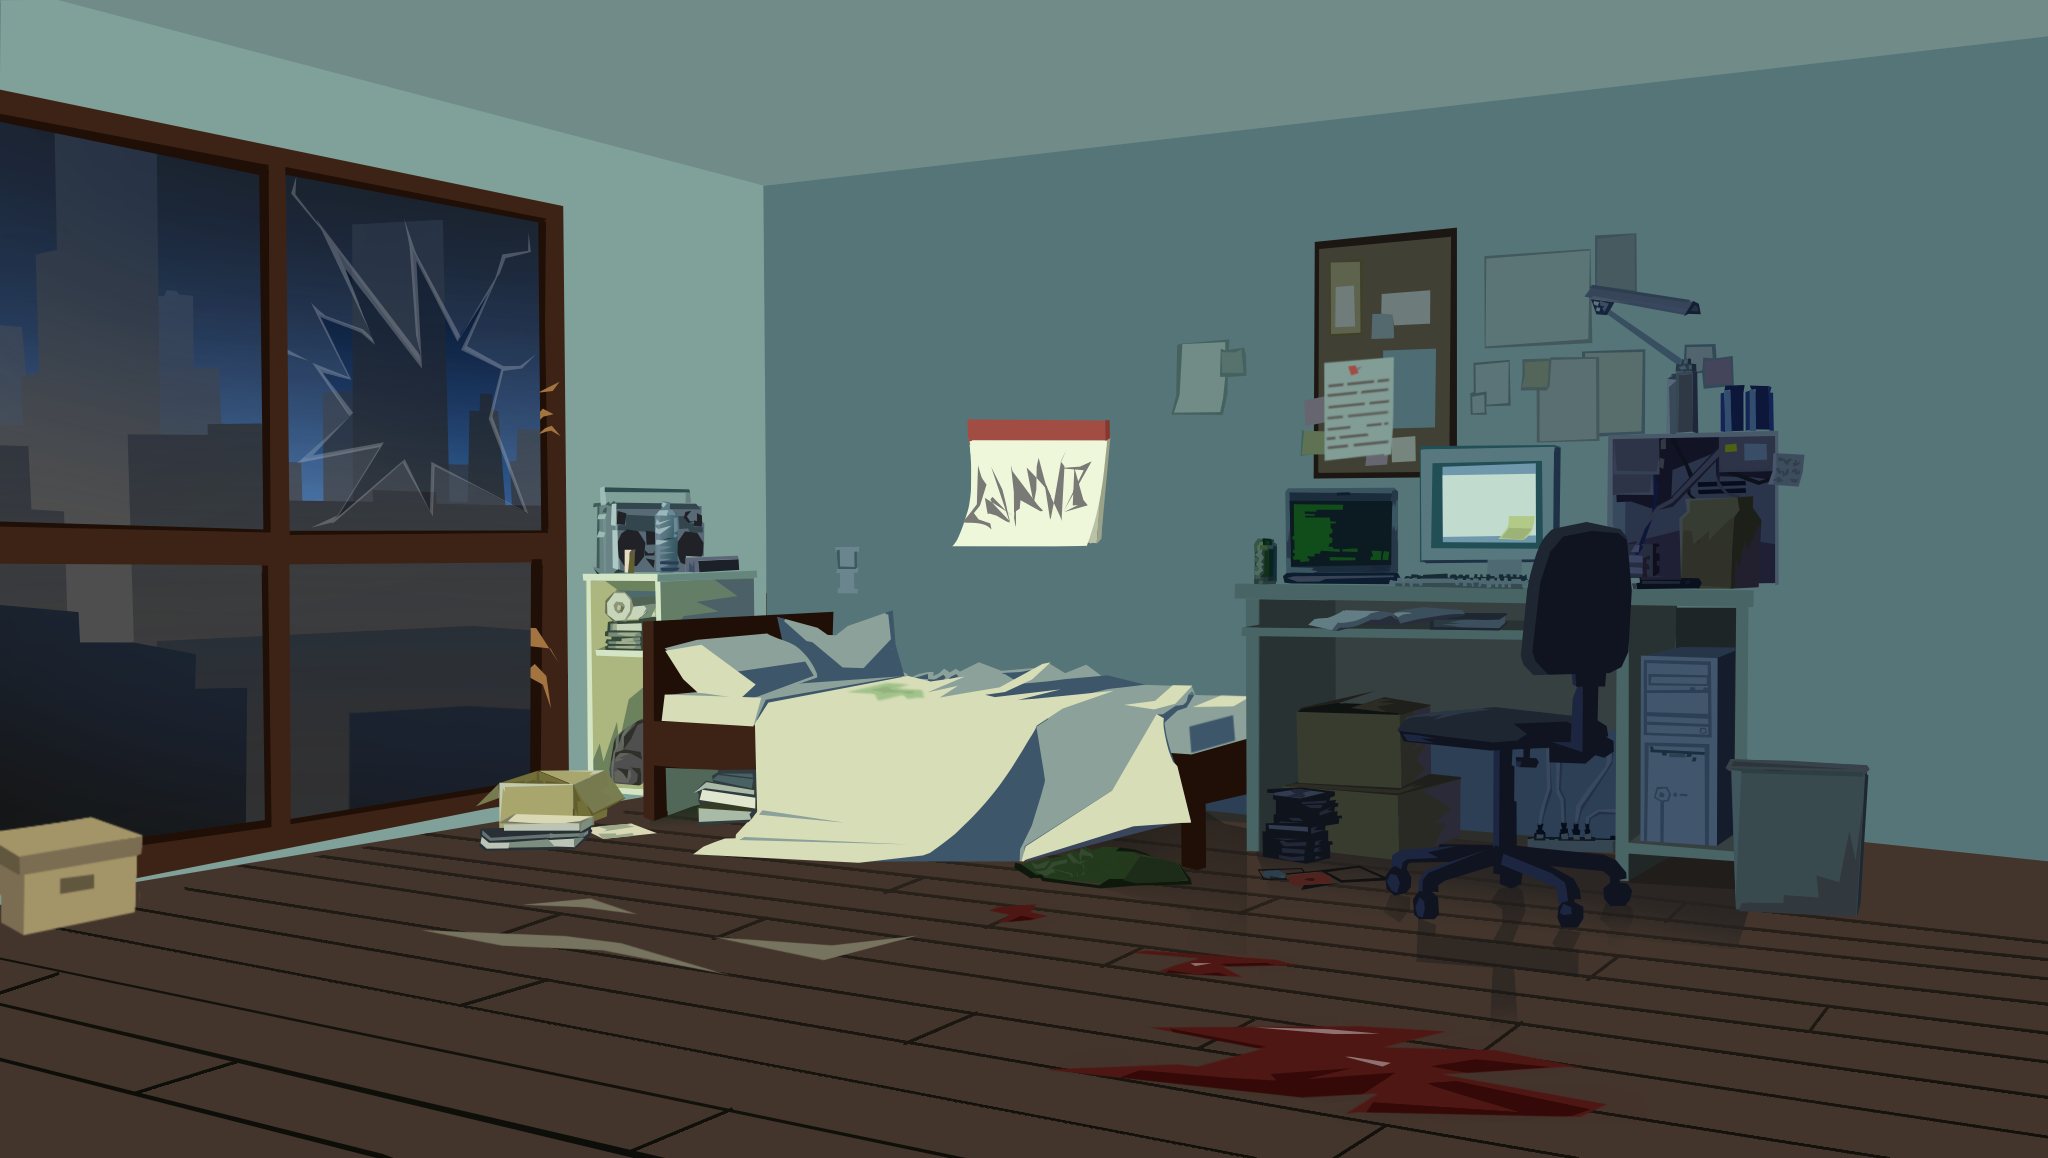
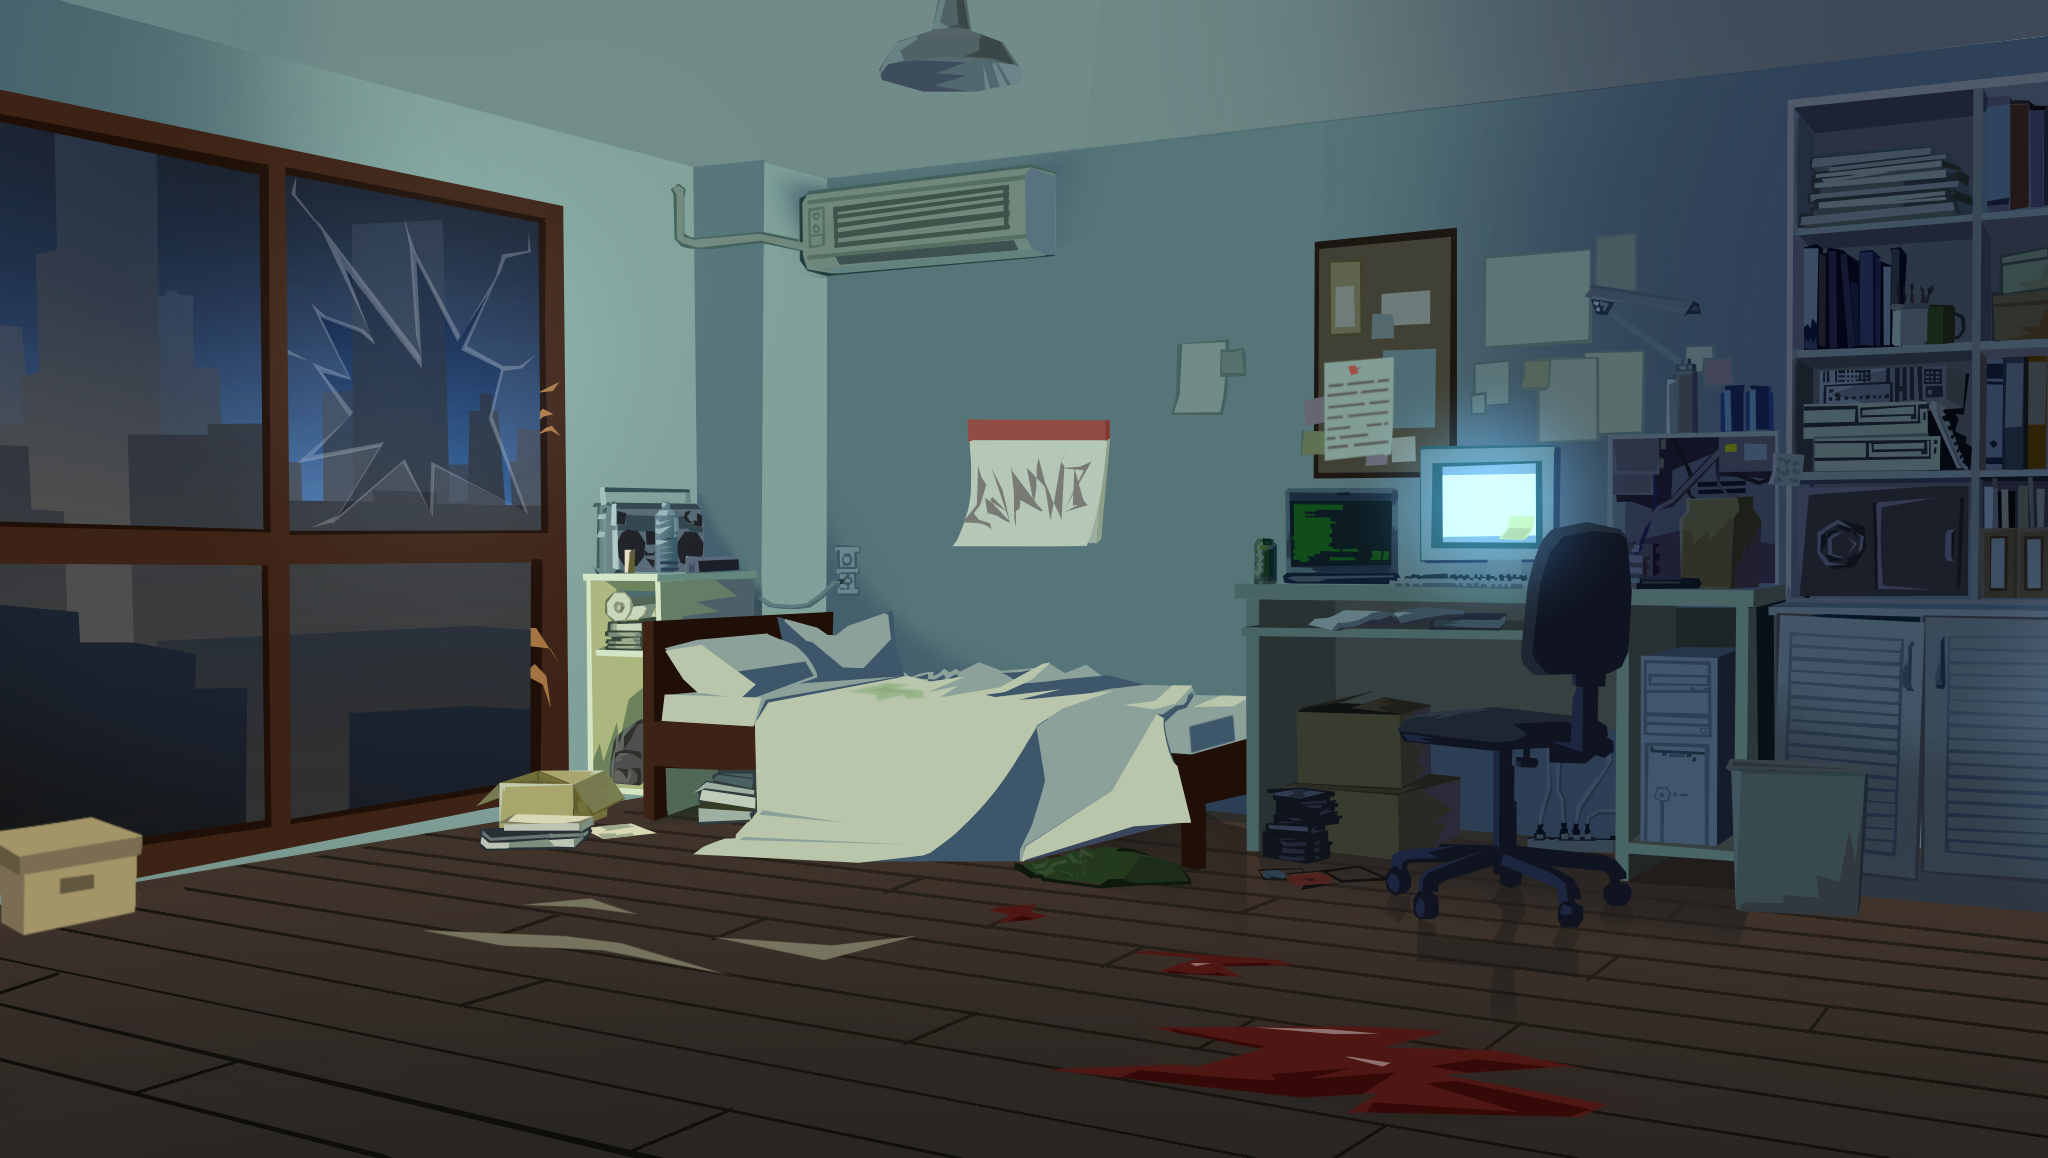
25/06

diff --git a/templates/station.html b/templates/station.html
@@ -73,25 +73,31 @@
                 <button class="next-dialogue-button" onclick="hideDialogue(); location.href='station'">></button>
             </div>
         </div>
+        <!-- buttons to go to next place -->
+        <div class="next-buttons">
+            <button id="hidden-button" class="next-location-button" onclick="location.href='station'" style="display:none">Warn the target</button>
+            <button class="next-location-button" onclick="location.href='alleyway'">End Investigation</button>
+        </div>
 
-        <button class="next-location-button">End investigation</button>
+        <!-- shows the 'warn the target' button if one of the correlating clues has been found -->
+        {% if showbutton == True %}
+            <script>document.getElementById("hidden-button").style.display = "block";</script>
+        {% endif %}
+    
 
         <!-- referenced from stackoverflow.com -->
+        <!-- clickable areas image map -->
         <map name="station-map">
-            <area name="broken-window" shape="rect" coords="240, 147, 392, 316" onclick="showDialogue(); sendID(2)">
-            <area name="floor-scuffs" shape="rect" coords="364, 561, 659, 630" onclick="showDialogue(); sendID(3)">
-            <area name="bed-chemical" shape="rect" coords="631, 428, 695, 451" onclick="showDialogue(); sendID(4)">
-            <area name="blood-splatter" shape="rect" coords="814, 627, 1206, 722" onclick="showDialogue(); sendID(5)">
-            <area name="safe" shape="rect" coords="1336, 306, 1471, 380" onclick="showDialogue()">
-            <area name="computer-code" shape="rect" coords="1057, 286, 1167, 357" onclick="showDialogue(); sendID(6)">
-            <area name="commissioner-code" shape="rect" coords="965, 220, 1042, 283" onclick="showDialogue(); sendID(7)">
-            <area name="calander" shape="rect" coords="715, 268, 830, 351" onclick="showDialogue(); sendID(8)">
-            <area name="window-scuffs1" shape="rect" coords="397, 243, 430, 283" onclick="showDialogue(); sendID(9)">
-            <area name="window-scuffs2" shape="rect" coords="393, 389, 426, 461" onclick="showDialogue(); sendID(9)">
+            <area name="map" shape="rect" coords="417, 140, 582, 282" onclick="showDialogue(); sendClueID(11);">
+            <area name="screwdriver" shape="rect" coords="684, 374, 800, 432" onclick="showDialogue(); sendItemID(2)">
+            <area name="open-book" shape="rect" coords="811, 547, 913, 619" onclick="showDialogue(); sendClueID(12)">
+            <area name="computer-message" shape="rect" coords="1006, 301, 1206, 722" onclick="showDialogue(); sendClueID(13)">
+            <area name="clock" shape="circle" coords="1063, 84, 63" onclick="showDialogue(); sendClueID(14)">
         </map>
 
     </body>
     <script>
+        //opens and closes menu
         function openMenu() {
             document.getElementById("menu-screen").style.display = "block";
             openGame()
@@ -100,6 +106,7 @@
             document.getElementById("menu-screen").style.display = "none";
         }
 
+        //switches between menu pages
         function openGame() {
             document.getElementById("menu-game").style.display = "block";
             document.getElementById("menu-clues").style.display = "none";
@@ -118,7 +125,6 @@
             document.getElementById("menu-game").style.display = "none";
             ButtonHover('button-inventory','button-clues','button-game')
         }
-
         function ButtonHover(id1, id2, id3){
             document.getElementById(id1).style.backgroundColor = "white";
             document.getElementById(id1).style.color = "darkgrey";
@@ -128,6 +134,7 @@
             document.getElementById(id3).style.color = "white";
         }
 
+        //shows/hides dialogue box
         function showDialogue() {
             document.getElementById("dialogue-div").style.display = "block";
             openGame()
@@ -137,9 +144,19 @@
             openGame()
         }
 
-        function sendID(num) {
+        //sends the clue ID to the python so it can be changed in the database
+        function sendClueID(num) {
             $.ajax({
-                url: '/process',
+                url: '/processClue',
+                type: 'POST',
+                data: { 'data': num },
+            });
+
+        }
+
+        function sendItemID(num) {
+            $.ajax({
+                url: '/processItem',
                 type: 'POST',
                 data: { 'data': num },
             });
@@ -147,4 +164,3 @@
         }
     </script>
 </html>
-

diff --git a/templates/alleyway.html b/templates/alleyway.html
@@ -73,25 +73,30 @@
                 <button class="next-dialogue-button" onclick="hideDialogue(); location.href='alleyway'">></button>
             </div>
         </div>
+        <!-- buttons to go to next place -->
+        <div class="next-buttons">
+            <button id="hidden-button" class="next-location-button" onclick="location.href='station'" style="display:none">Warn the target</button>
+            <button class="next-location-button" onclick="location.href='alleyway'">End Investigation</button>
+        </div>
 
-        <button class="next-location-button">End investigation</button>
+        <!-- shows the 'warn the target' button if one of the correlating clues has been found -->
+        {% if showbutton == True %}
+            <script>document.getElementById("hidden-button").style.display = "block";</script>
+        {% endif %}
+    
 
         <!-- referenced from stackoverflow.com -->
+        <!-- clickable areas image map -->
         <map name="alleyway-map">
-            <area name="broken-window" shape="rect" coords="240, 147, 392, 316" onclick="showDialogue(); sendID(2)">
-            <area name="floor-scuffs" shape="rect" coords="364, 561, 659, 630" onclick="showDialogue(); sendID(3)">
-            <area name="bed-chemical" shape="rect" coords="631, 428, 695, 451" onclick="showDialogue(); sendID(4)">
-            <area name="blood-splatter" shape="rect" coords="814, 627, 1206, 722" onclick="showDialogue(); sendID(5)">
-            <area name="safe" shape="rect" coords="1336, 306, 1471, 380" onclick="showDialogue()">
-            <area name="computer-code" shape="rect" coords="1057, 286, 1167, 357" onclick="showDialogue(); sendID(6)">
-            <area name="commissioner-code" shape="rect" coords="965, 220, 1042, 283" onclick="showDialogue(); sendID(7)">
-            <area name="calander" shape="rect" coords="715, 268, 830, 351" onclick="showDialogue(); sendID(8)">
-            <area name="window-scuffs1" shape="rect" coords="397, 243, 430, 283" onclick="showDialogue(); sendID(9)">
-            <area name="window-scuffs2" shape="rect" coords="393, 389, 426, 461" onclick="showDialogue(); sendID(9)">
+            <area name="dumpster" shape="poly" coords="817, 399, 1035, 350, 1116, 362, 1120, 639, 880, 642, 815, 587" onclick="showDialogue(); sendClueID(15);">
+            <area name="arkham-newspaper" shape="rect" coords="768, 113, 863, 267" onclick="showDialogue(); sendClueID(16)">
+            <area name="robin-newspaper" shape="rect" coords="556, 362, 634, 467" onclick="showDialogue(); sendClueID(17)">
+            <area name="station-door" shape="rect" coords="434, 180, 466, 628" onclick="showDialogue(); sendClueID(18)">
         </map>
 
     </body>
     <script>
+        //opens and closes menu
         function openMenu() {
             document.getElementById("menu-screen").style.display = "block";
             openGame()
@@ -100,6 +105,7 @@
             document.getElementById("menu-screen").style.display = "none";
         }
 
+        //switches between menu pages
         function openGame() {
             document.getElementById("menu-game").style.display = "block";
             document.getElementById("menu-clues").style.display = "none";
@@ -118,7 +124,6 @@
             document.getElementById("menu-game").style.display = "none";
             ButtonHover('button-inventory','button-clues','button-game')
         }
-
         function ButtonHover(id1, id2, id3){
             document.getElementById(id1).style.backgroundColor = "white";
             document.getElementById(id1).style.color = "darkgrey";
@@ -128,6 +133,7 @@
             document.getElementById(id3).style.color = "white";
         }
 
+        //shows/hides dialogue box
         function showDialogue() {
             document.getElementById("dialogue-div").style.display = "block";
             openGame()
@@ -137,9 +143,10 @@
             openGame()
         }
 
-        function sendID(num) {
+        //sends the clue ID to the python so it can be changed in the database
+        function sendClueID(num) {
             $.ajax({
-                url: '/process',
+                url: '/processClue',
                 type: 'POST',
                 data: { 'data': num },
             });
@@ -147,4 +154,3 @@
         }
     </script>
 </html>
-

diff --git a/templates/apartment.html b/templates/apartment.html
@@ -83,6 +83,26 @@
         {% if showbutton == True %}
             <script>document.getElementById("hidden-button").style.display = "block";</script>
         {% endif %}
+        
+        {% if targetCode == 'solved' %}
+            <p>testing</p>
+        {% endif %}
+
+        <!-- form for safe puzzle -->
+        <div class="form safe-form" id="safe-form" style="display:none">
+            <form method="post">
+                <input type="number" name="safe" required>
+                <button type="submit">Enter code</button>
+            </form>
+        </div>
+
+        <!-- form for target puzzle -->
+        <div class="form target-form" id="target-form" style="display:none">
+            <form method="post">
+                <input type="text" name="target" required>
+                <button type="submit">Enter target</button>
+            </form>
+        </div>
     
 
         <!-- referenced from stackoverflow.com -->
@@ -92,10 +112,10 @@
             <area name="floor-scuffs" shape="rect" coords="364, 561, 659, 630" onclick="showDialogue(); sendClueID(3)">
             <area name="bed-chemical" shape="rect" coords="631, 428, 695, 451" onclick="showDialogue(); sendClueID(4)">
             <area name="blood-splatter" shape="rect" coords="814, 627, 1206, 722" onclick="showDialogue(); sendClueID(5)">
-            <area name="safe" shape="rect" coords="1336, 306, 1471, 380" onclick="showDialogue()">
+            <area name="safe" shape="rect" coords="1336, 306, 1471, 380" onclick="showDialogue();sendClueID(10)">
             <area name="computer-code" shape="rect" coords="1057, 286, 1167, 357" onclick="showDialogue(); sendClueID(6)">
-            <area name="commissioner-code" shape="rect" coords="965, 220, 1042, 283" onclick="showDialogue(); sendClueID(7); showButton()">
-            <area name="calander" shape="rect" coords="715, 268, 830, 351" onclick="showDialogue(); sendClueID(8); showButton()">
+            <area name="commissioner-code" shape="rect" coords="965, 220, 1042, 283" onclick="showDialogue(); sendClueID(7)">
+            <area name="calander" shape="rect" coords="715, 268, 830, 351" onclick="showDialogue(); sendClueID(8)">
             <area name="window-scuffs1" shape="rect" coords="397, 243, 430, 283" onclick="showDialogue(); sendClueID(9)">
             <area name="window-scuffs2" shape="rect" coords="393, 389, 426, 461" onclick="showDialogue(); sendClueID(9)">
         </map>
@@ -152,11 +172,30 @@
         //sends the clue ID to the python so it can be changed in the database
         function sendClueID(num) {
             $.ajax({
-                url: '/process',
+                url: '/processClue',
                 type: 'POST',
                 data: { 'data': num },
             });
 
+        }
+
+        //sends the item ID to python so it can be changed in the database
+        function sendItemID(num) {
+            $.ajax({
+                url: '/processItem',
+                type: 'POST',
+                data: { 'data': num },
+            });
+
+        }
+        
+
+        function shoowSafeForm() {
+            document.getElementById("safe-form").style.display = "block";
+        }
+
+        function showTargetForm() {
+            document.getElementById("target-form").style.display = "block";
         }
     </script>
 </html>

diff --git a/app.py b/app.py
@@ -54,28 +54,104 @@ def apartment():
             showbutton = True
         else:
             showbutton = False
+        #gets the users answer for the puzzle 
+        safeCode = 'unsolved'
+        targetCode = 'unsolved'
+        if request.method == 'POST':
+            #prevents issues if the puzzle hasn't been answered
+            try:
+                safeCodeGuess = request.form['safe']
+            except:
+                safeCodeGuess = 0
+            try:
+                targetNameGuess = request.form['target']
+            except:
+                targetNameGuess = ''
+            #checks if the answer is correct
+            if safeCodeGuess == 2947:
+                safeCode = 'solved'
+            if targetNameGuess.lower() == 'the commissioner':
+                targetCode = 'solved'
 
-        return render_template('apartment.html', clues=clues, items=items, showbutton=showbutton)
+        return render_template('apartment.html', clues=clues, items=items, showbutton=showbutton, safeCode=safeCode, targetCode=targetCode)
 
-#lets the javascript make changes to the SQL
-@app.route('/process', methods=['POST'])
-def process():
+#updates SQL to say a clue is obtained when the user clicks it
+@app.route('/processClue', methods=['POST'])
+def processClue():
     db = get_db()
+    #gets id from javascript
     id = request.form.get('data')
+    #updates SQL
     db.execute(f'''UPDATE clues SET obtained = "T" WHERE id = {int(id)}''',)
     db.commit()
     redirect(render_template('apartment.html'))
+    return id
+
+#updates SQL to say an item is obtained when the user clicks/obtains it
+@app.route('/processItem', methods=['POST'])
+def processItem():
+    db = get_db()
+    #gets id from javascript
+    id = request.form.get('data')
+    #updates SQL
+    db.execute(f'''UPDATE items SET obtained = "T" WHERE id = {int(id)}''',)
+    db.commit()
+    #
+    #if id == 1: 
+        #redirect(render_template('apartment.html'))
+    #else:
+         #return(render_template('station.html'))
     return id
     
 #route for the 2nd investigation section
 @app.route('/station')
 def station():
-    return render_template('station.html')
+        db = get_db()
+        #gets all clues the user has unlocked
+        clues = db.execute(f'''SELECT * FROM clues 
+                                WHERE obtained == 'T'
+                                ORDER BY id ASC''',).fetchall()
+        #gets all items the user has unlocked
+        items = db.execute(f'''SELECT * FROM items 
+                                WHERE obtained == 'T'
+                                ORDER BY id ASC''',).fetchall()
+        #checks if one of 2 clues is found
+        clue1, = db.execute(f'''SELECT obtained FROM clues
+                                WHERE id == 7''',).fetchone()
+        clue2, = db.execute(f'''SELECT obtained FROM clues
+                                WHERE id == 8''',).fetchone()
+        #shows the associated button if one of the clues is found
+        if clue1 == 'T' or clue2 == 'T':
+            showbutton = True
+        else:
+            showbutton = False
+
+        return render_template('station.html', clues=clues, items=items, showbutton=showbutton)
 
 #route for the 3rd investigation section
 @app.route('/alleyway')
 def alleyway():
-    return render_template('alleyway.html')
+        db = get_db()
+        #gets all clues the user has unlocked
+        clues = db.execute(f'''SELECT * FROM clues 
+                                WHERE obtained == 'T'
+                                ORDER BY id ASC''',).fetchall()
+        #gets all items the user has unlocked
+        items = db.execute(f'''SELECT * FROM items 
+                                WHERE obtained == 'T'
+                                ORDER BY id ASC''',).fetchall()
+        #checks if one of 2 clues is found
+        clue1, = db.execute(f'''SELECT obtained FROM clues
+                                WHERE id == 7''',).fetchone()
+        clue2, = db.execute(f'''SELECT obtained FROM clues
+                                WHERE id == 8''',).fetchone()
+        #shows the associated button if one of the clues is found
+        if clue1 == 'T' or clue2 == 'T':
+            showbutton = True
+        else:
+            showbutton = False
+
+        return render_template('alleyway.html', clues=clues, items=items, showbutton=showbutton)
 
 
 
